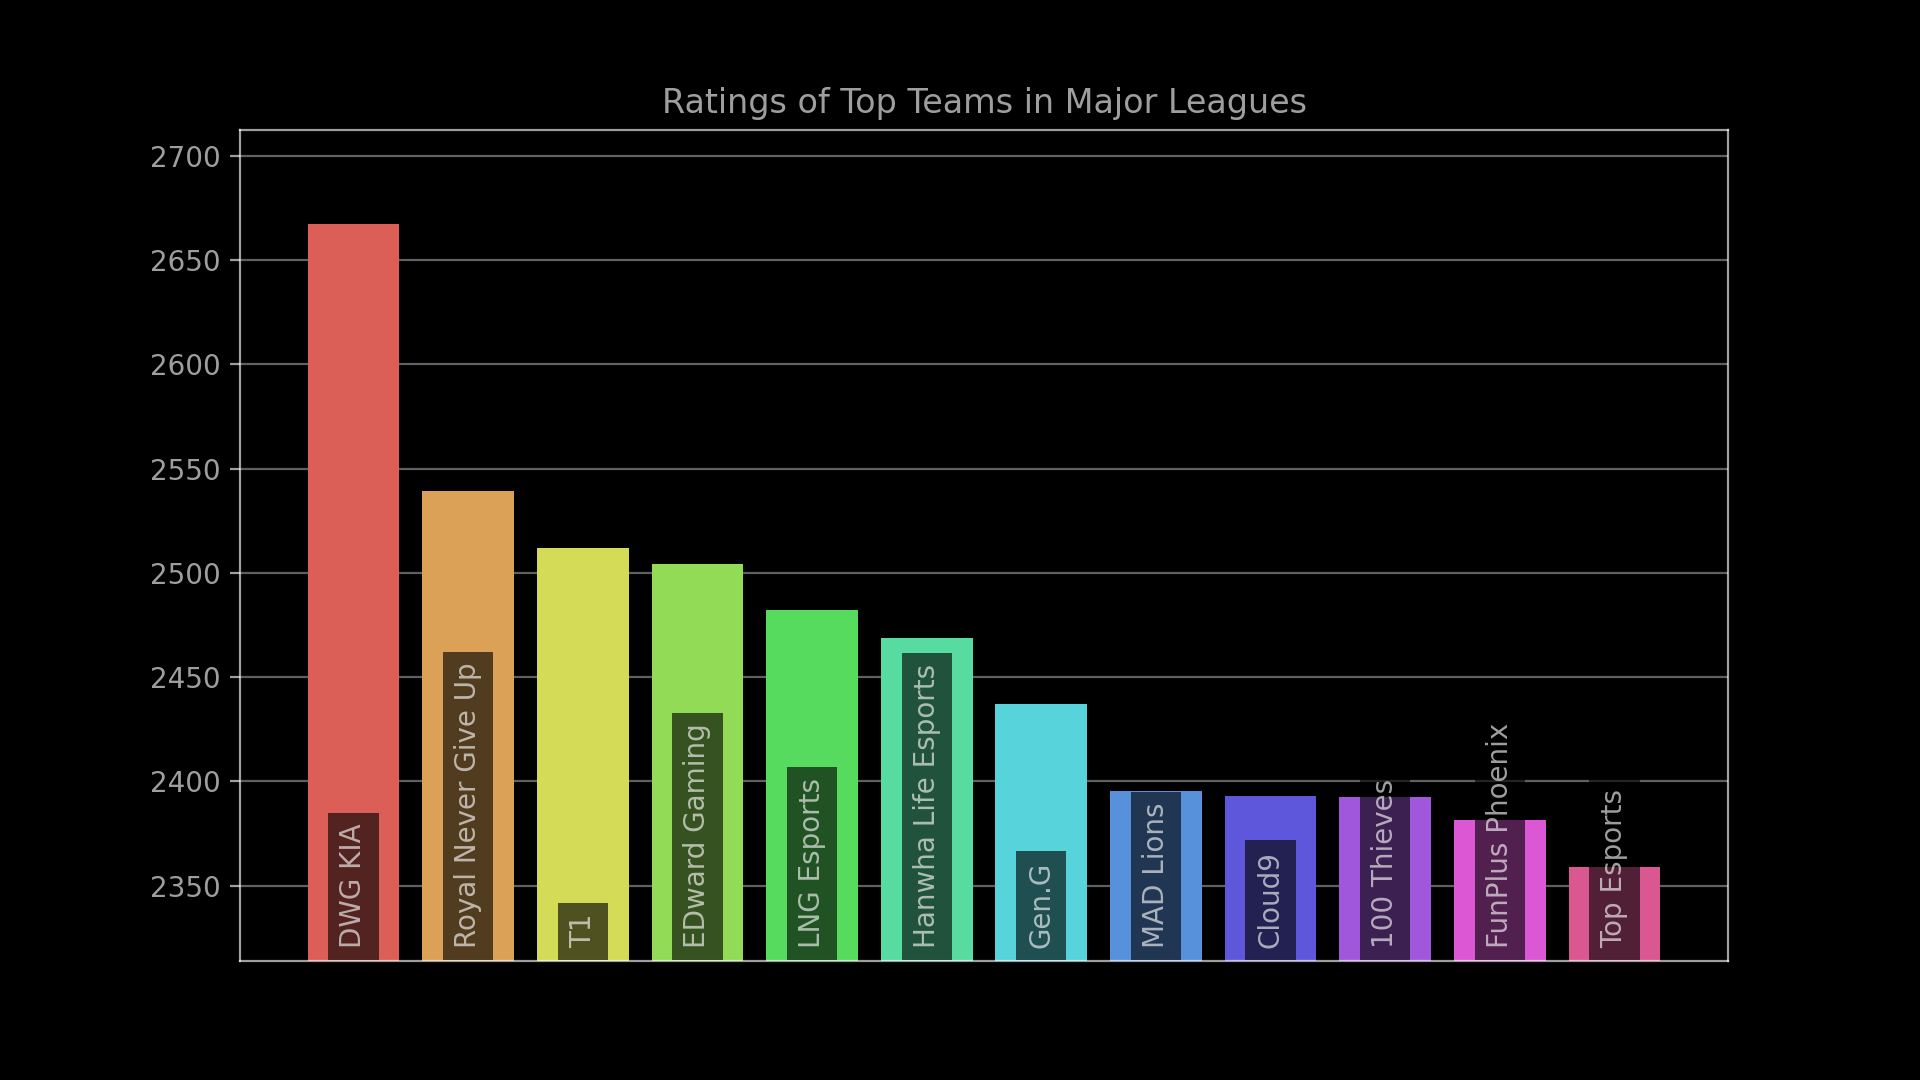
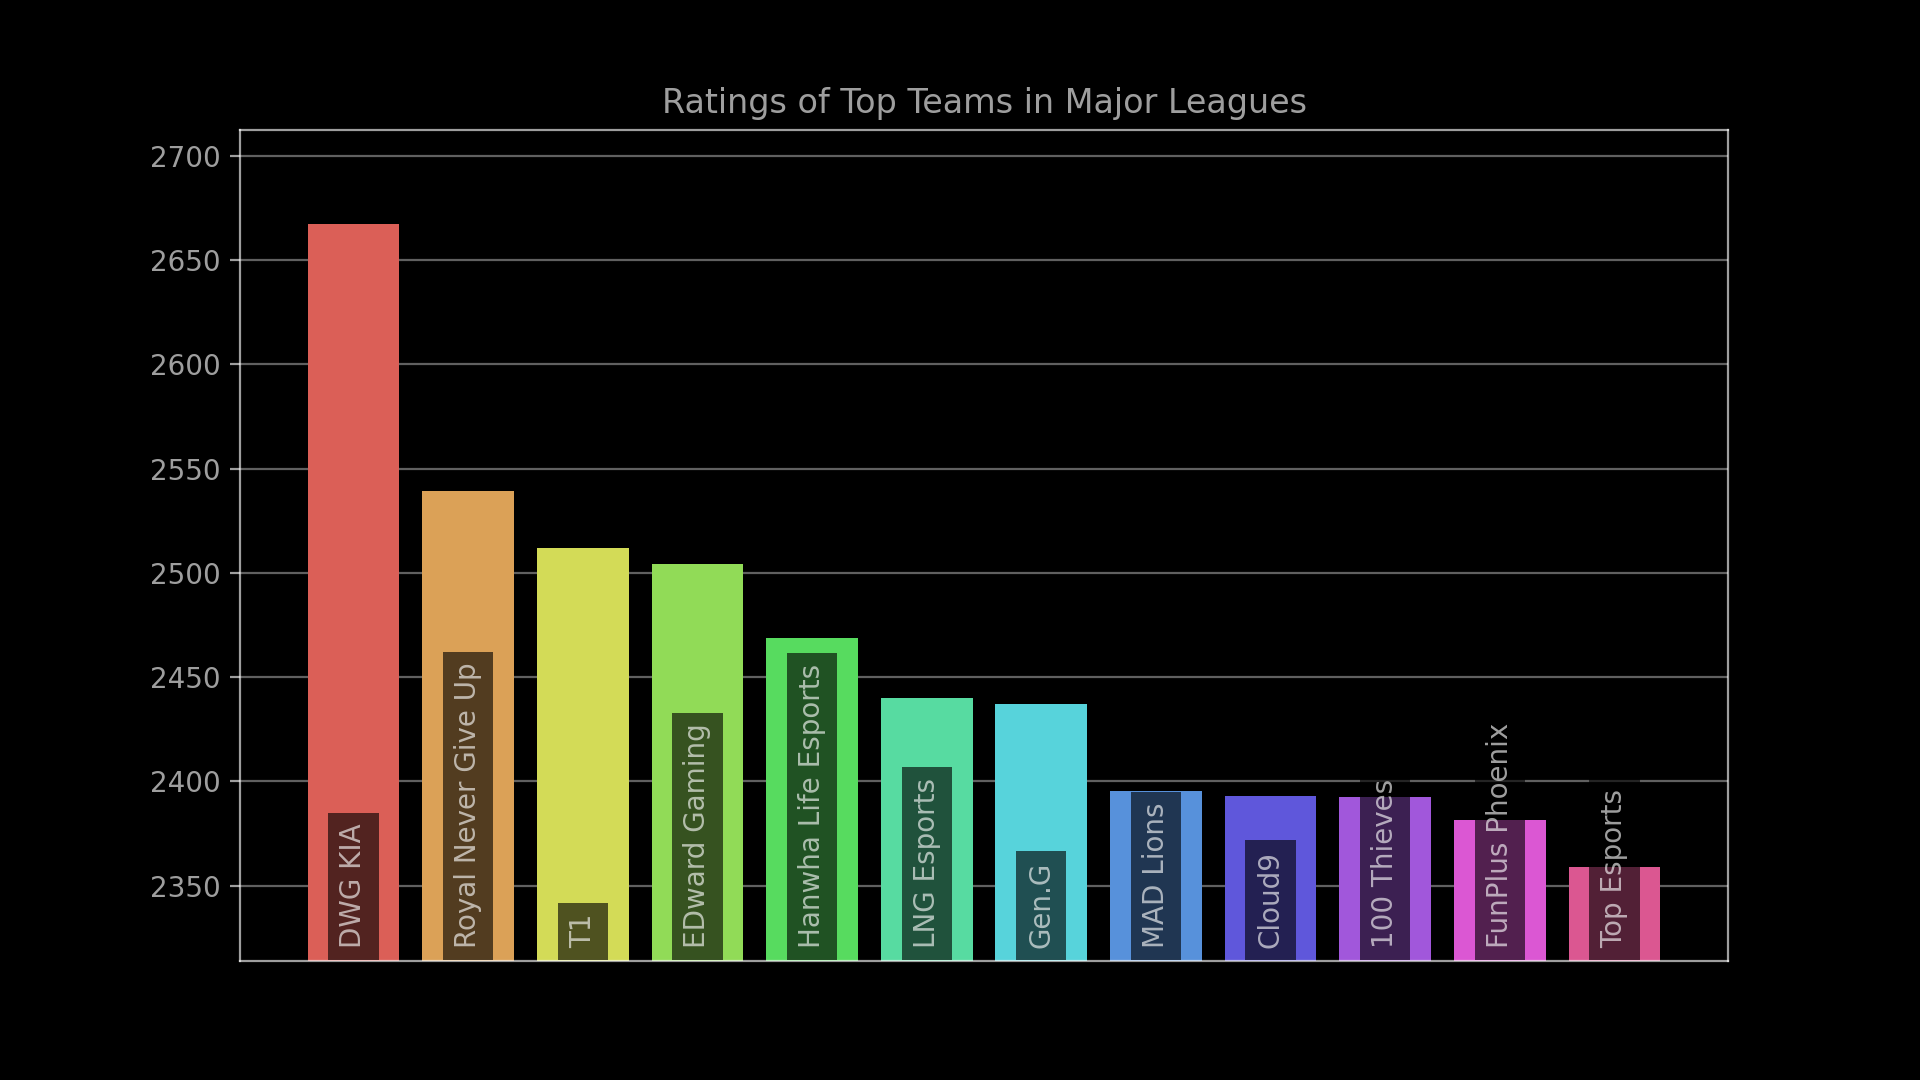
Update rating charts for 2021-10-18 14:00:00.

Changed region(s): [[0.375, 0.55, 0.5312, 0.8861]]

diff --git a/index.html b/index.html
@@ -80,23 +80,23 @@
             <tr><td style="text-align: right">2</td><td class="name">Royal Never Give Up</td><td class="league" style="text-align: center">LPL</td><td class="rating" style="text-align: center">2539.1</td><td class="diff" style="text-align: center; white-space: nowrap"><span style="color: #F44336">&minus;18.0</span></td></tr>
             <tr><td style="text-align: right">3</td><td class="name">T1</td><td class="league" style="text-align: center">LCK</td><td class="rating" style="text-align: center">2511.7</td><td class="diff" style="text-align: center; white-space: nowrap"><span style="color: #4CAF50">&plus;98.2</span></td></tr>
             <tr><td style="text-align: right">4</td><td class="name">EDward Gaming</td><td class="league" style="text-align: center">LPL</td><td class="rating" style="text-align: center">2504.1</td><td class="diff" style="text-align: center; white-space: nowrap"><span style="color: #F44336">&minus;32.3</span></td></tr>
-            <tr><td style="text-align: right">5</td><td class="name">LNG Esports</td><td class="league" style="text-align: center">LPL</td><td class="rating" style="text-align: center">2482.3</td><td class="diff" style="text-align: center; white-space: nowrap"><span style="color: #4CAF50">&plus;31.4</span></td></tr>
-            <tr><td style="text-align: right">6</td><td class="name">Hanwha Life Esports</td><td class="league" style="text-align: center">LCK</td><td class="rating" style="text-align: center">2468.6</td><td class="diff" style="text-align: center; white-space: nowrap"><span style="color: #4CAF50">&plus;30.3</span></td></tr>
-            <tr><td style="text-align: right">7</td><td class="name">PSG Talon</td><td class="league" style="text-align: center">PCS</td><td class="rating" style="text-align: center">2461.9</td><td class="diff" style="text-align: center; white-space: nowrap"><span style="color: #F44336">&minus;18.7</span></td></tr>
-            <tr><td style="text-align: right">8</td><td class="name">Gen.G</td><td class="league" style="text-align: center">LCK</td><td class="rating" style="text-align: center">2437.0</td><td class="diff" style="text-align: center; white-space: nowrap"><span style="color: #4CAF50">&plus;72.6</span></td></tr>
+            <tr><td style="text-align: right">5</td><td class="name">Hanwha Life Esports</td><td class="league" style="text-align: center">LCK</td><td class="rating" style="text-align: center">2468.6</td><td class="diff" style="text-align: center; white-space: nowrap"><span style="color: #4CAF50">&plus;30.3</span></td></tr>
+            <tr><td style="text-align: right">6</td><td class="name">PSG Talon</td><td class="league" style="text-align: center">PCS</td><td class="rating" style="text-align: center">2461.9</td><td class="diff" style="text-align: center; white-space: nowrap"><span style="color: #F44336">&minus;18.7</span></td></tr>
+            <tr><td style="text-align: right">7</td><td class="name">LNG Esports</td><td class="league" style="text-align: center">LPL</td><td class="rating" style="text-align: center">2440.2</td><td class="diff" style="text-align: center; white-space: nowrap"><span style="color: #F44336">&minus;3.4</span></td></tr>
+            <tr><td style="text-align: right">8</td><td class="name">Gen.G</td><td class="league" style="text-align: center">LCK</td><td class="rating" style="text-align: center">2437.0</td><td class="diff" style="text-align: center; white-space: nowrap"><span style="color: #4CAF50">&plus;62.1</span></td></tr>
             <tr><td style="text-align: right">9</td><td class="name">MAD Lions</td><td class="league" style="text-align: center">LEC</td><td class="rating" style="text-align: center">2395.4</td><td class="diff" style="text-align: center; white-space: nowrap"><span style="color: #F44336">&minus;78.0</span></td></tr>
             <tr><td style="text-align: right">10</td><td class="name">Cloud9</td><td class="league" style="text-align: center">LCS</td><td class="rating" style="text-align: center">2392.9</td><td class="diff" style="text-align: center; white-space: nowrap"><span style="color: #4CAF50">&plus;26.2</span></td></tr>
             <tr><td style="text-align: right">11</td><td class="name">100 Thieves</td><td class="league" style="text-align: center">LCS</td><td class="rating" style="text-align: center">2392.5</td><td class="diff" style="text-align: center; white-space: nowrap"><span style="color: #4CAF50">&plus;39.2</span></td></tr>
             <tr><td style="text-align: right">12</td><td class="name">FunPlus Phoenix</td><td class="league" style="text-align: center">LPL</td><td class="rating" style="text-align: center">2381.7</td><td class="diff" style="text-align: center; white-space: nowrap"><span style="color: #F44336">&minus;125.8</span></td></tr>
             <tr><td style="text-align: right">13</td><td class="name">Top Esports</td><td class="league" style="text-align: center">LPL</td><td class="rating" style="text-align: center">2358.8</td><td class="diff" style="text-align: center; white-space: nowrap"></td></tr>
-            <tr><td style="text-align: right">14</td><td class="name">Suning</td><td class="league" style="text-align: center">LPL</td><td class="rating" style="text-align: center">2354.8</td><td class="diff" style="text-align: center; white-space: nowrap"></td></tr>
-            <tr><td style="text-align: right">15</td><td class="name">Team WE</td><td class="league" style="text-align: center">LPL</td><td class="rating" style="text-align: center">2340.1</td><td class="diff" style="text-align: center; white-space: nowrap"></td></tr>
-            <tr><td style="text-align: right">16</td><td class="name">Rogue </td><td class="league" style="text-align: center">LEC</td><td class="rating" style="text-align: center">2330.7</td><td class="diff" style="text-align: center; white-space: nowrap"><span style="color: #4CAF50">&plus;6.5</span></td></tr>
-            <tr><td style="text-align: right">17</td><td class="name">Bilibili Gaming</td><td class="league" style="text-align: center">LPL</td><td class="rating" style="text-align: center">2318.9</td><td class="diff" style="text-align: center; white-space: nowrap"></td></tr>
-            <tr><td style="text-align: right">18</td><td class="name">G2 Esports</td><td class="league" style="text-align: center">LEC</td><td class="rating" style="text-align: center">2313.3</td><td class="diff" style="text-align: center; white-space: nowrap"></td></tr>
-            <tr><td style="text-align: right">19</td><td class="name">Rare Atom</td><td class="league" style="text-align: center">LPL</td><td class="rating" style="text-align: center">2313.0</td><td class="diff" style="text-align: center; white-space: nowrap"></td></tr>
-            <tr><td style="text-align: right">20</td><td class="name">Afreeca Freecs</td><td class="league" style="text-align: center">LCK</td><td class="rating" style="text-align: center">2305.4</td><td class="diff" style="text-align: center; white-space: nowrap"></td></tr>
-            <tr><td style="text-align: right">21</td><td class="name">Team Liquid</td><td class="league" style="text-align: center">LCS</td><td class="rating" style="text-align: center">2303.6</td><td class="diff" style="text-align: center; white-space: nowrap"><span style="color: #F44336">&minus;37.5</span></td></tr>
+            <tr><td style="text-align: right">14</td><td class="name">Team Liquid</td><td class="league" style="text-align: center">LCS</td><td class="rating" style="text-align: center">2357.1</td><td class="diff" style="text-align: center; white-space: nowrap"><span style="color: #4CAF50">&plus;16.1</span></td></tr>
+            <tr><td style="text-align: right">15</td><td class="name">Suning</td><td class="league" style="text-align: center">LPL</td><td class="rating" style="text-align: center">2354.8</td><td class="diff" style="text-align: center; white-space: nowrap"></td></tr>
+            <tr><td style="text-align: right">16</td><td class="name">Team WE</td><td class="league" style="text-align: center">LPL</td><td class="rating" style="text-align: center">2340.1</td><td class="diff" style="text-align: center; white-space: nowrap"></td></tr>
+            <tr><td style="text-align: right">17</td><td class="name">Rogue </td><td class="league" style="text-align: center">LEC</td><td class="rating" style="text-align: center">2330.7</td><td class="diff" style="text-align: center; white-space: nowrap"><span style="color: #4CAF50">&plus;6.5</span></td></tr>
+            <tr><td style="text-align: right">18</td><td class="name">Bilibili Gaming</td><td class="league" style="text-align: center">LPL</td><td class="rating" style="text-align: center">2318.9</td><td class="diff" style="text-align: center; white-space: nowrap"></td></tr>
+            <tr><td style="text-align: right">19</td><td class="name">G2 Esports</td><td class="league" style="text-align: center">LEC</td><td class="rating" style="text-align: center">2313.3</td><td class="diff" style="text-align: center; white-space: nowrap"></td></tr>
+            <tr><td style="text-align: right">20</td><td class="name">Rare Atom</td><td class="league" style="text-align: center">LPL</td><td class="rating" style="text-align: center">2313.0</td><td class="diff" style="text-align: center; white-space: nowrap"></td></tr>
+            <tr><td style="text-align: right">21</td><td class="name">Afreeca Freecs</td><td class="league" style="text-align: center">LCK</td><td class="rating" style="text-align: center">2305.4</td><td class="diff" style="text-align: center; white-space: nowrap"></td></tr>
             <tr><td style="text-align: right">22</td><td class="name">CrowCrowd</td><td class="league" style="text-align: center">LCL</td><td class="rating" style="text-align: center">2303.4</td><td class="diff" style="text-align: center; white-space: nowrap"></td></tr>
             <tr><td style="text-align: right">23</td><td class="name">Fnatic</td><td class="league" style="text-align: center">LEC</td><td class="rating" style="text-align: center">2294.1</td><td class="diff" style="text-align: center; white-space: nowrap"><span style="color: #F44336">&minus;9.8</span></td></tr>
             <tr><td style="text-align: right">24</td><td class="name">Beyond Gaming</td><td class="league" style="text-align: center">PCS</td><td class="rating" style="text-align: center">2293.0</td><td class="diff" style="text-align: center; white-space: nowrap"></td></tr>

diff --git a/assets/js/chart-config.js b/assets/js/chart-config.js
@@ -3,10 +3,10 @@ const MONTH_ABBREVIATIONS = ["Jan", "Feb", "Mar", "Apr", "May", "Jun", "Jul", "A
 const topChartConfig = {
     type: "bar",
     data: {
-        labels: ['DWG KIA', 'Royal Never Give Up', 'T1', 'EDward Gaming', 'LNG Esports', 'Hanwha Life Esports', 'Gen.G', 'MAD Lions', 'Cloud9', '100 Thieves', 'FunPlus Phoenix', 'Top Esports'],
+        labels: ['DWG KIA', 'Royal Never Give Up', 'T1', 'EDward Gaming', 'Hanwha Life Esports', 'LNG Esports', 'Gen.G', 'MAD Lions', 'Cloud9', '100 Thieves', 'FunPlus Phoenix', 'Top Esports'],
         datasets: [{
             backgroundColor: ['#dc5f57', '#dca157', '#d4dc57', '#91dc57', '#57dc5f', '#57dca1', '#57d4dc', '#5791dc', '#5f57dc', '#a157dc', '#dc57d4', '#dc5791'],
-            data: [2667.475752135994, 2539.102646002875, 2511.6879446870657, 2504.142926627319, 2482.2936444367374, 2468.5615321778664, 2437.0473500158373, 2395.445471015515, 2392.8668374178997, 2392.5403855259237, 2381.7010883286844, 2358.8275642289427],
+            data: [2667.475752135994, 2539.102646002875, 2511.6879446870657, 2504.142926627319, 2468.5615321778664, 2440.2020794571013, 2437.0473500158373, 2395.445471015515, 2392.8668374178997, 2392.5403855259237, 2381.7010883286844, 2358.8275642289427],
             label: "Rating Points"
         }]
     },

diff --git a/README.md b/README.md
@@ -49,22 +49,22 @@ confidence interval of the rating.
 | 2 | Royal Never Give Up | 2539.1 | 74.9 |
 | 3 | T1 | 2511.7 | 73.4 |
 | 4 | EDward Gaming | 2504.1 | 76.2 |
-| 5 | LNG Esports | 2482.3 | 71.7 |
-| 6 | Hanwha Life Esports | 2468.6 | 61.2 |
+| 5 | Hanwha Life Esports | 2468.6 | 61.2 |
+| 6 | LNG Esports | 2440.2 | 72.8 |
 | 7 | Gen.G | 2437.0 | 83.1 |
 | 8 | MAD Lions | 2395.4 | 84.2 |
 | 9 | Cloud9 | 2392.9 | 60.3 |
 | 10 | 100 Thieves | 2392.5 | 74.4 |
 | 11 | FunPlus Phoenix | 2381.7 | 72.5 |
 | 12 | Top Esports | 2358.8 | 71.2 |
-| 13 | Suning | 2354.8 | 69.8 |
-| 14 | Team WE | 2340.1 | 61.8 |
-| 15 | Rogue (European Team) | 2330.7 | 73.6 |
-| 16 | Bilibili Gaming | 2318.9 | 73.6 |
-| 17 | G2 Esports | 2313.3 | 79.1 |
-| 18 | Rare Atom | 2313.0 | 77.3 |
-| 19 | Afreeca Freecs | 2305.4 | 67.7 |
-| 20 | Team Liquid | 2303.6 | 84.0 |
+| 13 | Team Liquid | 2357.1 | 82.9 |
+| 14 | Suning | 2354.8 | 69.8 |
+| 15 | Team WE | 2340.1 | 61.8 |
+| 16 | Rogue (European Team) | 2330.7 | 73.6 |
+| 17 | Bilibili Gaming | 2318.9 | 73.6 |
+| 18 | G2 Esports | 2313.3 | 79.1 |
+| 19 | Rare Atom | 2313.0 | 77.3 |
+| 20 | Afreeca Freecs | 2305.4 | 67.7 |
 | 21 | Fnatic | 2294.1 | 76.6 |
 | 22 | TSM | 2289.8 | 69.9 |
 | 23 | Misfits Gaming | 2282.8 | 77.4 |
